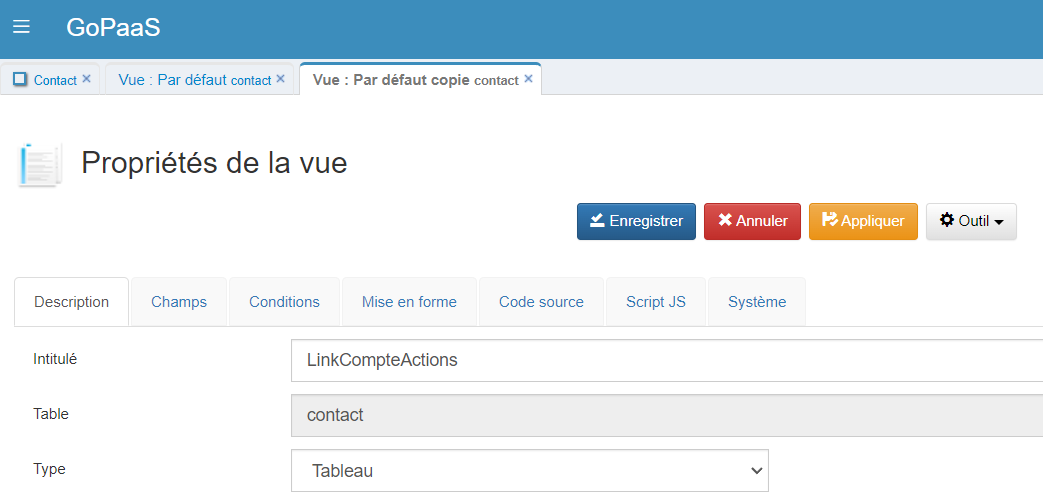
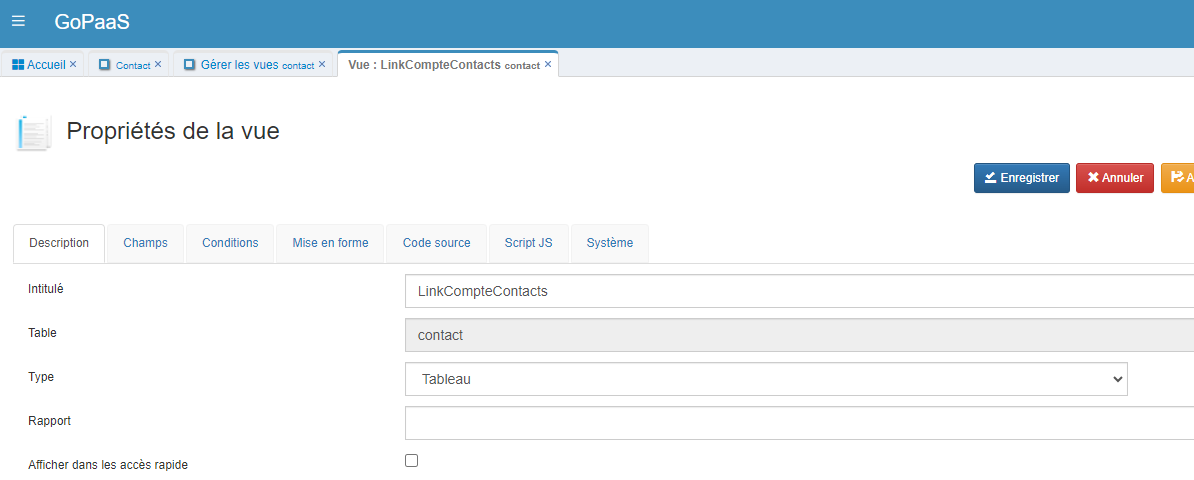
Formation Contact, correctifs.

diff --git a/formation/contact/readme.md b/formation/contact/readme.md
@@ -186,7 +186,7 @@ Voici un tableau avec les champs de la table `Contact` à créer et leur types :
 
     ![screenshot](images/image41.png)
 
-* Cliquer sur l'icône de modification <img src="images/image40.png" width="28px" alt="capture"> pour accéder aux paramètres de la vue pour pouvoir la personnaliser.
+* Cliquer sur l'icône de modification <img src="images/image26.png" width="28px" alt="capture"> pour accéder aux paramètres de la vue pour pouvoir la personnaliser.
 * Cliquer sur l'onglet `Champs` pour voir la liste des champs de la table **Contact** dans la colonne de gauche.
 
     ![screenshot](images/image18.png)
@@ -218,8 +218,6 @@ Pour afficher les **Contacts** liés au **Compte**, il faut créer une vue liée
   - `Compte` est le nom de la tabvle parent
   - `Contacts` est la table liée avezc les fiches enfant)
   - Soit dans ce cas `linkCompteContacts`
-
-> TODO: changer Screenshot avec linkCompteContacts
 
 ![screenshot](images/image22.png)
 
@@ -258,20 +256,16 @@ Dans le menu personnalisation ![capture](images/image5.png):
 
 - Renseigner l'intitulé, le label et l'ordre du nouvel onglet.
 
-> TODO: Mettre les valeurs dans le tableau
-
 | Nom des champs        | Description                        |
-|------------------------|-----------------------------------------------|
-| Intitulé | Le nom doit être unique sur la table.        |
-| Label    | Le texte qui apparaîtra sur le formulaire.   |
-| Ordre    | La position de l'onglet dans l'affichage.       |
+|-----------------------|------------------------------------|
+| Intitulé | Contact        |
+| Label    | Contact        |
+| Ordre    | 2              |
 
 ![screenshot](images/image39.png)
 
 - Cliquer sur le bouton **Enregistrer** pour appliquer les modifications.
 - Une fois la création de l'onglets terminée, cliquer sur le bouton ![capture](images/image16.png) pour actualiser le FormDesigner et visualiser les modifications.
-
-
 
 ### Ajouter un champ de type **Vue**
 
